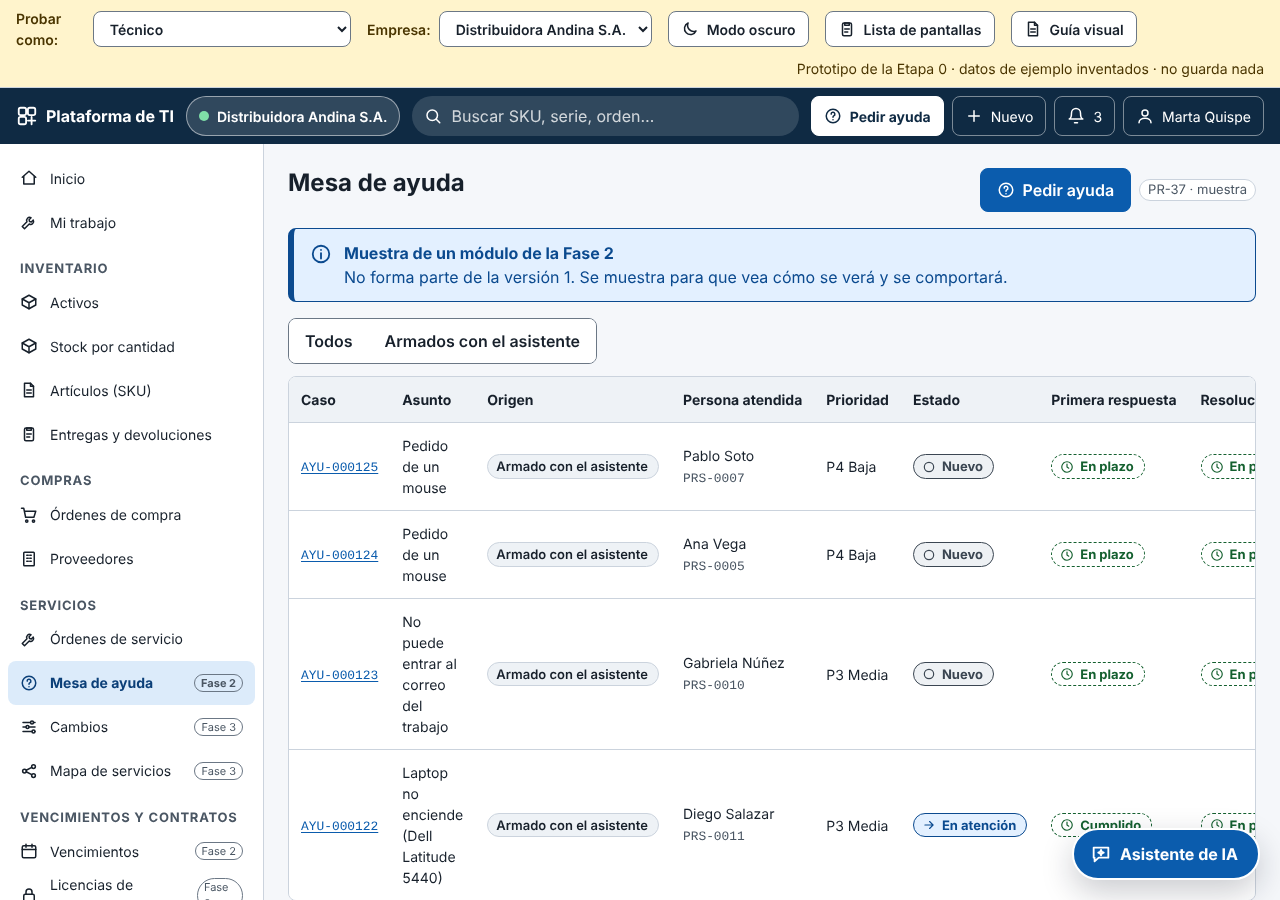
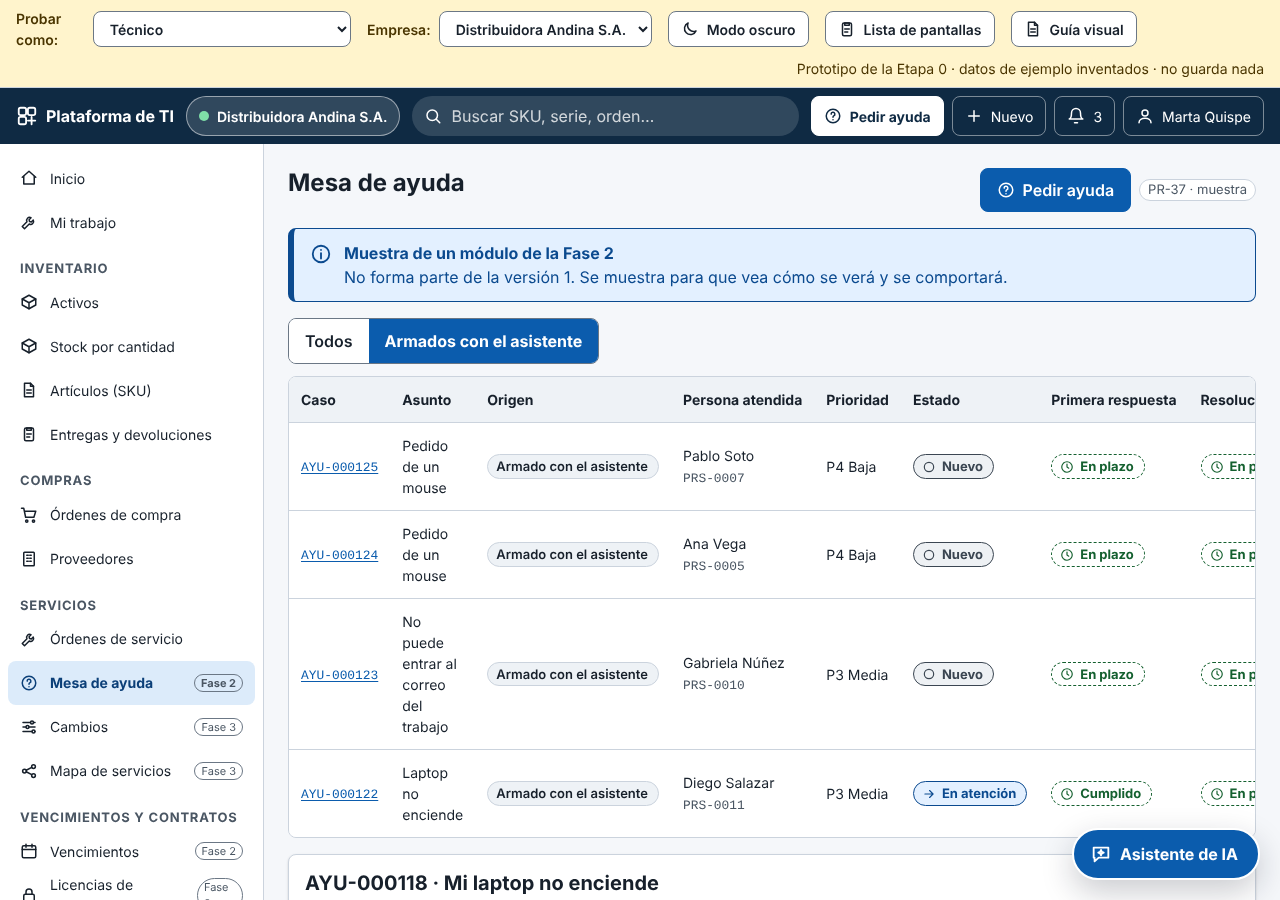
Prototipo: botón flotante Asistente de IA, chat de admisión de casos con tres conversaciones y vista del técnico
Claude-Session: https://claude.ai/code/session_011DkFiBAtcrjrhCwLF1G6P5

diff --git a/docs/prototipo/assets/pantallas-asistente.js b/docs/prototipo/assets/pantallas-asistente.js
@@ -142,7 +142,7 @@
       titulo: 'No prende la laptop', inicio: 'No prende mi laptop', servicio: 'Reportar un problema', tipo: 'Incidente', sv: 'problema',
       pasos: [
         pasoConfirma('Entiendo: su laptop no enciende.', 'Reportar un problema'),
-        pasoEquipo('¿Cuál es el equipo afectado? Elija una tarjeta. Por su seguridad no muestro números de serie.'),
+        pasoEquipo('¿Cuál es el equipo afectado? Elija una tarjeta. Las tarjetas las muestra la plataforma: yo no veo el nombre de sus equipos ni sus números de serie.'),
         pasoDesde(),
         { id: 'luz', tipo: 'botones', campo: 'luz', aclara: '¿Se enciende alguna luz al conectar el cargador?', p: () => 'Una duda más: al conectar el cargador, ¿se enciende alguna luz?', opciones: [{ v: 'no', t: 'No, ninguna luz' }, { v: 'si', t: 'Sí, se enciende una luz' }, { v: 'nose', t: 'No sé' }], ejemplo: { v: 'no', t: 'No, ninguna luz' } },
         { id: 'antes', tipo: 'botones', campo: 'antes', opcional: true, p: () => '¿Pasó algo antes de que dejara de encender? (Esta pregunta es opcional.)', opciones: ['Un golpe o caída', 'Un derrame', 'Una actualización', 'Nada que recuerde', 'Prefiero no responder'].map((t) => ({ v: t, t })), ejemplo: { v: 'Nada que recuerde', t: 'Nada que recuerde' } },
@@ -157,9 +157,9 @@
         const luzRes = { no: 'al conectar el cargador no se enciende ninguna luz', si: 'al conectar el cargador se enciende una luz, pero el equipo no arranca', nose: 'no sabe si se enciende alguna luz al conectar el cargador' }[r.luz] || '';
         const ocurre = { 'Desde hoy': 'ocurre desde hoy', 'Desde ayer': 'ocurre desde ayer', 'Hace varios días': 'ocurre hace varios días', 'No sé': 'no sabe desde cuándo ocurre' }[r.desde] || '';
         return {
-          asunto: 'Laptop no enciende' + (eq ? ' (' + eq.modelo + ')' : ''),
+          asunto: 'Laptop no enciende',
           desc: punto(cap(r.relato)) + ' ' + luzUsr,
-          resumen: `La persona informa que su laptop${eq ? ' (' + eq.modelo + ')' : ''} no enciende; ${ocurre}. En concreto, ${luzRes}. Ya probó: ${bajo(punto(r.probo || 'nada todavía'))} ${cap(IMPACTOS.find((x) => x.v === r.impacto).frase)} y ${URGENCIAS.find((x) => x.v === r.urgencia).frase}.`,
+          resumen: `La persona informa que su laptop no enciende; ${ocurre}. En concreto, ${luzRes}. Ya probó: ${bajo(punto(r.probo || 'nada todavía'))} ${cap(IMPACTOS.find((x) => x.v === r.impacto).frase)} y ${URGENCIAS.find((x) => x.v === r.urgencia).frase}.`,
           aclar: [{ p: '¿Se enciende alguna luz al conectar el cargador?', r: r.luz_t }],
           valores: { desde: r.desde, antes: r.antes && r.antes !== 'Prefiero no responder' ? r.antes : '', ubicar: r.ubicar || '' }
         };
@@ -170,7 +170,7 @@
       pasos: [
         pasoConfirma('Entiendo: no puede entrar a su correo.', 'Reportar un problema'),
         { id: 'sospecha', tipo: 'botones', campo: 'sospecha', aclara: '¿Sospecha que alguien más entró a su cuenta o que entregó su clave por error?', p: () => 'Una pregunta importante para su seguridad: ¿sospecha que alguien más entró a su cuenta, o que entregó su clave por error?', opciones: [{ v: 'no', t: 'No, solo no me deja entrar' }, { v: 'si', t: 'Sí, creo que me robaron la cuenta' }], ejemplo: { v: 'no', t: 'No, solo no me deja entrar' } },
-        pasoEquipo('¿Desde cuál de sus equipos intenta entrar? Si no es desde un equipo de la empresa, elija «Ninguno».', 'El equipo'),
+        pasoEquipo('¿Desde cuál de sus equipos intenta entrar? Elija una tarjeta (las muestra la plataforma; yo no veo el nombre de sus equipos). Si no es desde un equipo de la empresa, elija «Ninguno».', 'El equipo'),
         pasoDesde(),
         { id: 'error', tipo: 'texto', campo: 'error', opcional: true, corregible: 'El mensaje de error', p: () => '¿Aparece algún mensaje de error? Si puede, cópielo y péguelo aquí: seleccione el texto, pulse Ctrl+C y luego Ctrl+V en el cuadro de abajo. No escriba su contraseña.', opciones: [{ v: '', t: 'No aparece ningún mensaje' }], ejemplo: { v: 'Su cuenta está bloqueada. Intente de nuevo en 30 minutos o contacte a su administrador. (código 50053)', t: 'Su cuenta está bloqueada. Intente de nuevo en 30 minutos o contacte a su administrador. (código 50053)' } },
         { id: 'trabajo', tipo: 'botones', campo: 'trabajo', aclara: '¿Le pasa solo con el correo del trabajo?', p: () => 'Una duda más: ¿le pasa solo con el correo del trabajo?', opciones: [{ v: 'solo', t: 'Solo con el del trabajo' }, { v: 'otras', t: 'También con otras cuentas' }, { v: 'nose', t: 'No sé' }], ejemplo: { v: 'solo', t: 'Solo con el del trabajo' } },
@@ -185,7 +185,7 @@
         return {
           asunto: 'No puede entrar al correo del trabajo',
           desc: punto(cap(r.relato)) + (hay ? ' Me aparece un mensaje de error (está copiado más abajo).' : ' No me aparece ningún mensaje.'),
-          resumen: `La persona no puede entrar a su correo del trabajo, ${ocurre}${eq ? ', desde su ' + eq.modelo : ''}. ${hay ? 'Aparece un mensaje de error (ver texto pegado). ' : 'No aparece ningún mensaje. '}Indicó que no sospecha que alguien más haya entrado a su cuenta. Ya probó: ${bajo(punto(r.probo || 'nada todavía'))} ${cap(IMPACTOS.find((x) => x.v === r.impacto).frase)} y ${URGENCIAS.find((x) => x.v === r.urgencia).frase}.`,
+          resumen: `La persona no puede entrar a su correo del trabajo, ${ocurre}. ${hay ? 'Aparece un mensaje de error (ver texto pegado). ' : 'No aparece ningún mensaje. '}Indicó que no sospecha que alguien más haya entrado a su cuenta. Ya probó: ${bajo(punto(r.probo || 'nada todavía'))} ${cap(IMPACTOS.find((x) => x.v === r.impacto).frase)} y ${URGENCIAS.find((x) => x.v === r.urgencia).frase}.`,
           aclar: [{ p: '¿Sospecha que alguien más entró a su cuenta o que entregó su clave por error?', r: r.sospecha_t }, { p: '¿Le pasa solo con el correo del trabajo?', r: r.trabajo_t }],
           valores: { desde: r.desde, error: hay ? r.error.trim() : '' }
         };
@@ -389,7 +389,7 @@
       s.fase = 'fin';
       ia('Me alegra que se haya resuelto. No se creó ningún caso y no se guardó esta conversación. Si el problema vuelve, aquí estaré.'); return;
     }
-    if (p.id === 'equipo' && v !== 'ninguno') { const e = eqsActuales().find((x) => x.id === v); s.ack = e ? `Anotado: ${e.modelo}.` : ''; }
+    if (p.id === 'equipo') s.ack = v === 'ninguno' ? 'Anotado: no es de un equipo.' : 'Anotado: equipo elegido.';   // D-112: el asistente no ve el nombre del equipo
     else if (p.id === 'impacto' || p.id === 'urgencia' || p.id === 'servicio') s.ack = '';
     else if (p.opcional && !txt) s.ack = 'Sin problema, la dejamos en blanco.';
     else s.ack = 'Anotado.';

diff --git a/docs/prototipo/assets/estilos.css b/docs/prototipo/assets/estilos.css
@@ -616,3 +616,4 @@ body.con-asistente .toasts { bottom: 84px; }
 .asi-msg .btn { white-space: normal; text-align: left; justify-content: flex-start; height: auto; padding-top: var(--e2); padding-bottom: var(--e2); }
 .asi-msg .acciones-msg { flex-direction: column; align-items: stretch; }
 @media (max-width: 640px) { .asi-cab button span { display: none; } }
+.conmutador a[aria-current="true"] { background: var(--c-primario); color: var(--c-primario-texto); font-weight: 650; }

diff --git a/docs/prototipo/LEEME.md b/docs/prototipo/LEEME.md
@@ -51,10 +51,29 @@ Para cada una, diga **«sí»**, **«no»** o **«cambiar»** (y qué).
 10. **La empresa activa, la segunda verificación y el celular.**
     La empresa siempre se ve arriba. Quien aprueba dinero tiene un aviso de **segunda verificación** (rol Jefatura TI → «Por aprobar»; pruebe «Mi cuenta y seguridad»). En «Lista de pantallas» también están el **ingreso con código corto** (cuando se abre el correo en otro dispositivo) y **«Primeros pasos»** de una empresa nueva (rol Administrador, empresa «Clínica Santa Aurora»). ¿Está bien el nivel de seguridad? ¿Se usa bien en el celular?
 
+## Nuevo: el «Asistente de IA» (chat para armar un buen caso de ayuda)
+
+Es un botón azul **abajo a la derecha** («Asistente de IA»), que se ve con los roles **Empleado del portal** y **Técnico**. «Pedir ayuda» no cambia: sigue siendo la puerta normal (en la barra de arriba para el Técnico; en el menú y la barra inferior para el Empleado). **Es una simulación con guion fijo: no hay inteligencia artificial real**, y lo dice en el propio panel.
+
+**Cómo verlo (5 minutos)**
+
+1. Entre como **Empleado del portal** y pulse el botón. Elija uno de los tres ejemplos (o escriba con sus palabras): «No prende mi laptop», «No puedo entrar a mi correo» o «Necesito un mouse nuevo». El asistente pregunta **una cosa por vez**, y le muestra **tarjetas con sus equipos** para elegir (sin número de serie). Si no quiere contestar, el botón «Responder con el ejemplo» avanza solo.
+2. Al final aparece **su caso armado** (el mismo formulario de «Pedir ayuda», ya lleno), con «Esto verá TI». **El caso no existe hasta que pulse «Enviar a TI»**; también puede «Corregir» (vuelve al chat) o «Descartar». Pruebe dejar el asunto vacío para ver la validación.
+3. Dentro del panel, «Probar otras situaciones» muestra: **cuenta robada** (aviso fijo rojo «Llame ahora a TI»; también sale si en el correo responde «Sí, creo que me robaron la cuenta»), **proveedor de IA caído** (le lleva al formulario normal con lo que ya contó), límite de mensajes, tope de gasto, tema fuera de TI y datos de otra persona.
+4. Cambie a rol **Técnico** → «Mesa de ayuda» → filtro «Armados con el asistente». Abra un caso: verá la marca «Armado con el asistente», el resumen, lo que la persona ya probó, el texto del error pegado y el contexto que agrega la plataforma, más un clic de valoración. También está la lista en «Lista de pantallas» (PR-46 y PR-47) y «Configuración → Módulos activos» para apagar el asistente.
+
+**Tres preguntas para el CEO sobre el chat**
+
+1. ¿Las preguntas de una en una, con botones, le parecen el ritmo correcto, o hay demasiadas (el caso de la laptop hace unas 10)?
+2. ¿Prefiere que el caso armado se revise en el mismo panel (que se agranda, como ahora) o en una pantalla completa aparte?
+3. Al técnico le llega el caso con la marca «Armado con el asistente» y los bloques separados («lo dijo la persona», «lo redactó el asistente», «lo agregó la plataforma»). ¿Le queda claro quién dijo qué, o falta algo?
+
+Notas del diseño: el asistente **no ve el nombre de sus equipos** (las tarjetas las muestra la plataforma, D-112); la prioridad la calcula la plataforma, no el asistente; la conversación no se guarda: en el caso queda solo lo que la persona confirmó. Los teléfonos y textos legales son inventados o provisionales. Capturas 11 a 23 en `capturas/`.
+
 ## Qué es de la versión 1 y qué es solo una muestra
 
 - **Versión 1 (lo que se construirá primero):** acceso, empresas, usuarios y permisos, personas, catálogos, artículos, inventario, importación del Excel, órdenes de compra y recepción, órdenes de servicio y auditoría.
-- **Muestras (marcadas «Fase 2» o «Fase 3» en el menú):** mesa de ayuda, vencimientos, licencias, presupuesto, mapa de servicios, cambios, portal del empleado y avisos. Se incluyen solo para que vea cómo serán; **no** se construyen en la primera versión.
+- **Muestras (marcadas «Fase 2» o «Fase 3» en el menú):** mesa de ayuda, asistente de IA, vencimientos, licencias, presupuesto, mapa de servicios, cambios, portal del empleado y avisos. Se incluyen solo para que vea cómo serán; **no** se construyen en la primera versión.
 
 ## Lo que este prototipo no hace
 
@@ -66,4 +85,4 @@ Para cada una, diga **«sí»**, **«no»** o **«cambiar»** (y qué).
 
 - Todo el estilo (colores de los dos modos, tipografía, espaciado, componentes) está en **`assets/estilos.css`**, listo para reutilizar. Los siete grupos de color de estado y su contraste están en la «Guía visual».
 - La matriz de permisos sale del **registro único de permisos** (`assets/permisos.js`, generado). `assets/permisos-ajustes.js` aplica la decisión D-068 (16 permisos más sensibles, PS-232 y PS-233) mientras el registro no se actualice.
-- Las capturas de ejemplo están en `capturas/`.
+- Las capturas de ejemplo están en `capturas/`. El asistente vive en `assets/pantallas-asistente.js` (guiones, panel y vista del técnico) y sus estilos están al final de `estilos.css` (sección 10). Prueba automática de comprobación: se corre con Playwright (sin dependencias nuevas en el proyecto).
